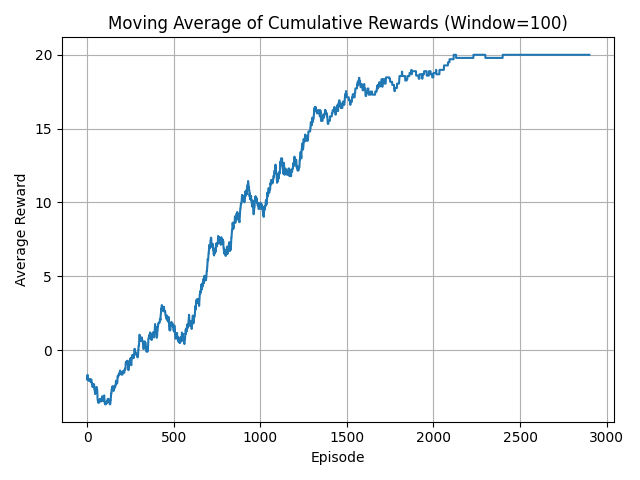
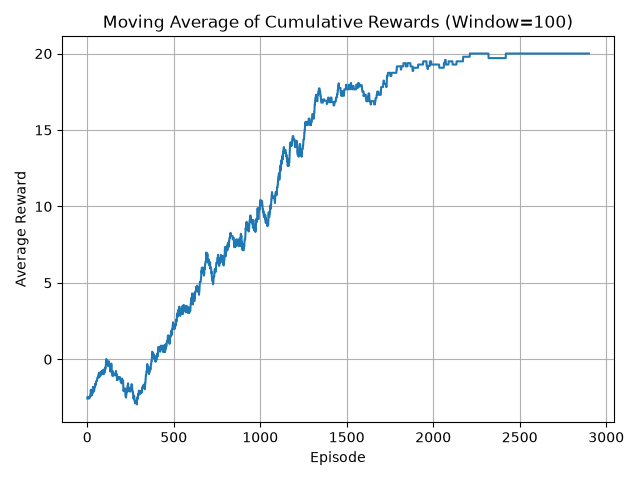
gym version

diff --git a/reinforcement/src/taxi.py b/reinforcement/src/taxi.py
@@ -73,7 +73,7 @@ def _run_simulation(n_episodes:int,
 
     # Converts render_mode True/False to terms that gymnasium understands
     render_mode = None if training_mode else 'human'
-    env = gym.make('Taxi-v3', render_mode=render_mode)
+    env = gym.make('Taxi-v4', render_mode=render_mode)
 
     # Training mode starts with an empty Q-Table whereas rollout mode uses
     # a pretrained model that was saved to disk
